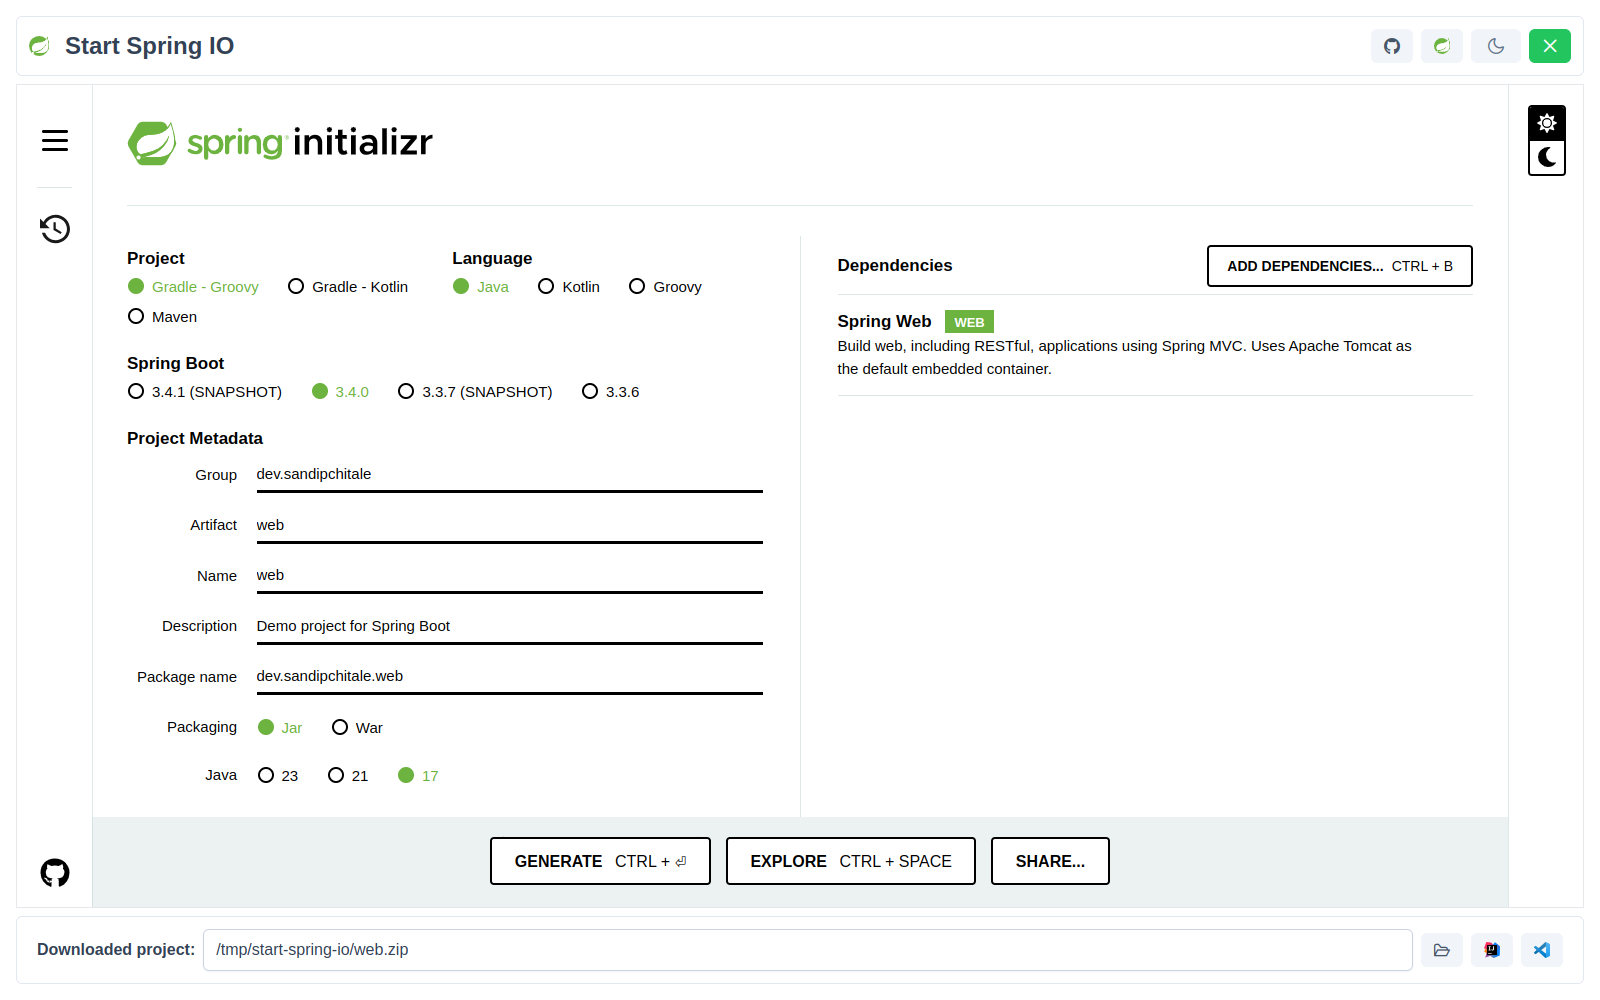
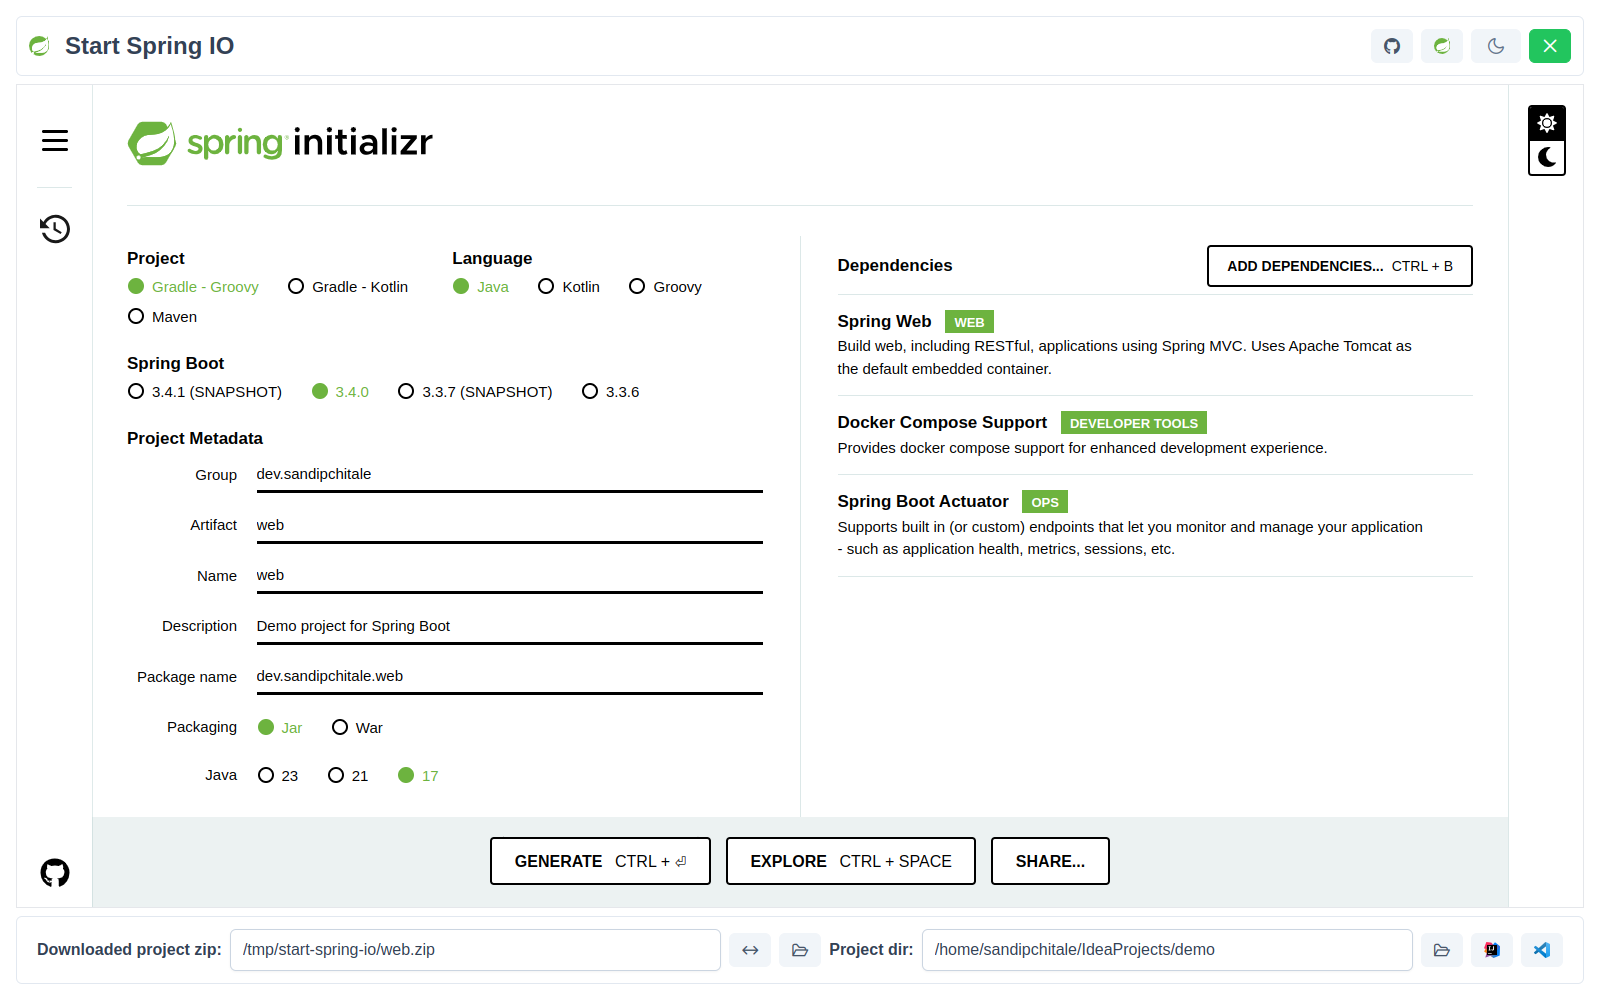
Separate extract from open.

Changed region(s): [[0.5312, 0.403, 0.875, 0.558], [0.5, 0.93, 0.75, 0.961], [0.125, 0.93, 0.2812, 0.961]]

diff --git a/src/app/app.component.ts b/src/app/app.component.ts
@@ -30,7 +30,8 @@ export class AppComponent implements AfterViewInit {
 
   _darkTheme = false;
 
-  downloadedProjectPath: string | null = null;
+  downloadedZipPath: string | null = null;
+  projectPath: string | null = null;
 
   constructor(
     private electronService: ElectronService,
@@ -53,10 +54,11 @@ export class AppComponent implements AfterViewInit {
       try {
         switch (message.type) {
           case 'start-spring-io-project-started':
-            this.downloadedProjectPath = '';
+            this.downloadedZipPath = '';
+            this.projectPath = '';
             break;
           case 'start-spring-io-project':
-            this.downloadedProjectPath = message.projectPath;
+            this.downloadedZipPath = message.projectPath;
             break;
         }
       } finally {
@@ -89,36 +91,10 @@ export class AppComponent implements AfterViewInit {
     }
   }
 
-  openZip() {
-    if (this.downloadedProjectPath) {
-      shell.showItemInFolder(this.downloadedProjectPath);
-    }
-  }
-
-  openProjectInIntelliJ() {
-    if (this.downloadedProjectPath) {
-      let intellijPath = 'idea';
-      if (os.platform() === 'linux') {
-        intellijPath = `${os.homedir()}/.local/share/JetBrains/Toolbox/scripts/idea`
-      }
-      this.openProject(intellijPath);
-    }
-  }
-
-  openProjectInVSCode() {
-    if (this.downloadedProjectPath) {
-      let vscodePath = 'code';
-      if (os.platform() === 'linux') {
-        vscodePath = `/usr/bin/code`
-      }
-      this.openProject(vscodePath);
-    }
-  }
-
-  openProject(tool: string) {
-    if (this.downloadedProjectPath) {
-      const basename = path.basename(this.downloadedProjectPath);
-      const ext = path.extname(this.downloadedProjectPath);
+  extractZip() {
+    if (this.downloadedZipPath) {
+      const basename = path.basename(this.downloadedZipPath);
+      const ext = path.extname(this.downloadedZipPath);
       const projectName = basename.substring(0, basename.length - ext.length);
       ipcRenderer.send('select-project-parent-dir', {
         title: 'Open parent directory for Project',
@@ -129,12 +105,51 @@ export class AppComponent implements AfterViewInit {
         (async () => {
           if (!openDialogReturnValue.canceled) {
             const projectParentDir = openDialogReturnValue.filePaths[0];
-            await extract(this.downloadedProjectPath!, {dir: projectParentDir});
-            exec(`"${tool}" "${path.join(projectParentDir, projectName)}"`, (error) => {
-              console.error(error);
-            });
+            await extract(this.downloadedZipPath!, {dir: projectParentDir});
+            this.projectPath = path.join(projectParentDir, projectName);
+            this.changeDetectorRef.detectChanges();
           }
         })();
+      });
+    }
+  }
+
+  openZipLocation() {
+    if (this.downloadedZipPath) {
+      shell.showItemInFolder(this.downloadedZipPath);
+    }
+  }
+
+  openProjectLocation() {
+    if (this.projectPath) {
+      shell.showItemInFolder(this.projectPath);
+    }
+  }
+
+  openProjectInIntelliJ() {
+    if (this.projectPath) {
+      let intellijPath = 'idea';
+      if (os.platform() === 'linux') {
+        intellijPath = `${os.homedir()}/.local/share/JetBrains/Toolbox/scripts/idea`
+      }
+      this.openProject(intellijPath);
+    }
+  }
+
+  openProjectInVSCode() {
+    if (this.projectPath) {
+      let vscodePath = 'code';
+      if (os.platform() === 'linux') {
+        vscodePath = `/usr/bin/code`
+      }
+      this.openProject(vscodePath);
+    }
+  }
+
+  openProject(tool: string) {
+    if (this.projectPath) {
+      exec(`"${tool}" "${this.projectPath}"`, (error) => {
+        console.error(error);
       });
     }
   }

diff --git a/src/app/app.component.html b/src/app/app.component.html
@@ -29,16 +29,24 @@
     <ng-template #start>
     </ng-template>
     <ng-template #center>
-      <div class="mr-2 font-bold">Downloaded project:</div>
-      <input readonly type="text" pInputText [(ngModel)]="downloadedProjectPath" class="no-drag mr-2 grow"/>
-      <button pButton [disabled]="!downloadedProjectPath" (click)="openZip()" class="no-drag mr-2" severity="secondary" title="Open in Explorer">
+      <div class="mr-2 font-bold">Downloaded project zip:</div>
+      <input readonly type="text" pInputText [(ngModel)]="downloadedZipPath" class="no-drag mr-2 grow"/>
+      <button pButton [disabled]="!downloadedZipPath" (click)="extractZip()" class="no-drag mr-2" severity="secondary" title="Extract zip">
+        <i class="pi pi-arrows-h"></i>
+      </button>
+      <button pButton [disabled]="!downloadedZipPath" (click)="openZipLocation()" class="no-drag mr-2" severity="secondary" title="Open zip location">
         <i class="pi pi-folder-open"></i>
       </button>
-      <button pButton [disabled]="!downloadedProjectPath" (click)="openProjectInIntelliJ()" class="no-drag mr-2" severity="secondary"
+      <div class="mr-2 font-bold">Project dir:</div>
+      <input readonly type="text" pInputText [(ngModel)]="projectPath" class="no-drag mr-2 grow"/>
+      <button pButton [disabled]="!projectPath" (click)="openProjectLocation()" class="no-drag mr-2" severity="secondary" title="Open Project Location">
+        <i class="pi pi-folder-open"></i>
+      </button>
+      <button pButton [disabled]="!projectPath" (click)="openProjectInIntelliJ()" class="no-drag mr-2" severity="secondary"
               title="Open project in IntelliJ">
         <img src="assets/icons/intellij.png" class="w-[16px]" alt="Open project in IntelliJ"/>
       </button>
-      <button pButton [disabled]="!downloadedProjectPath" (click)="openProjectInVSCode()" class="no-drag" severity="secondary"
+      <button pButton [disabled]="!projectPath" (click)="openProjectInVSCode()" class="no-drag" severity="secondary"
               title="Open project in VSCode">
         <img src="assets/icons/vscode.png" class="w-[16px]" alt="VSCode"/>
       </button>
